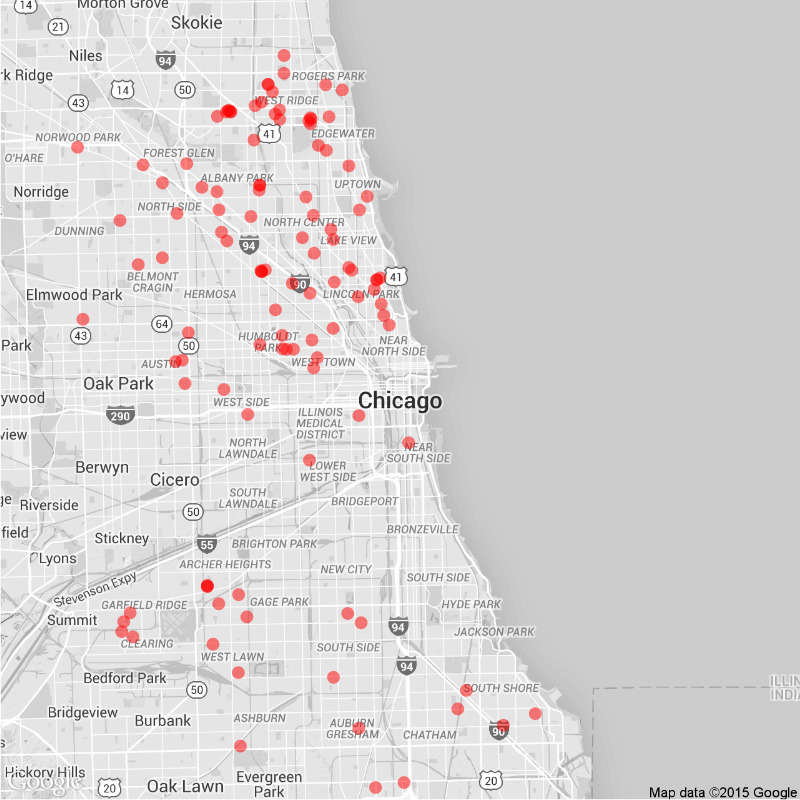
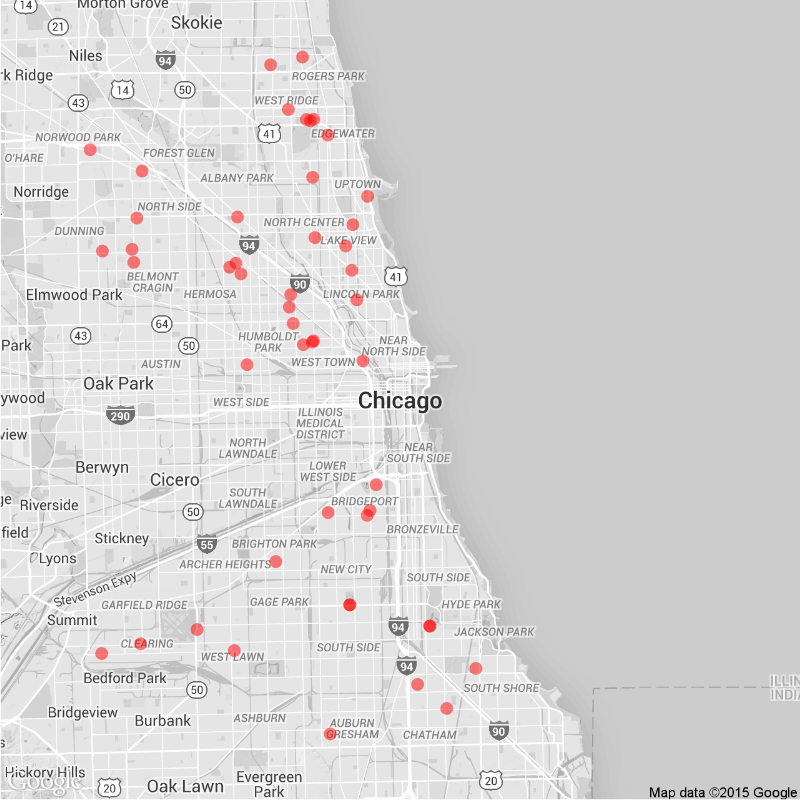
Daily Maps

diff --git a/daily.md b/daily.md
@@ -15,22 +15,22 @@ tags: Chicago NYC weekly daily rats
 
 ### Daily
 
-Yesterday (May 08), there were 117 calls to Chicago's 311 line about rats.
+Yesterday (May 09), there were 49 calls to Chicago's 311 line about rats.
 ![Chicago rat calls to 311 weekly map]({{ site.cityimages }}/daily/Chicago_Rat_Map_Daily.png)
 
 ### Weekly
-Between May 02 and May 08, there were 735 calls to Chicago's 311 line about rats. The average number of weekly calls for this time of year is 695.
+Between May 03 and May 09, there were 748 calls to Chicago's 311 line about rats. The average number of weekly calls for this time of year is 695.
 ![Chicago rat calls to 311 weekly map]({{ site.cityimages }}/daily/Chicago_Rat_Map_Weekly.png)
 ***
 # New York City <a id="nyc"><a>
 
 ### Daily
 
-Yesterday (May 08), there were 0 calls to New York City's 311 line about rats.
+Yesterday (May 09), there were 0 calls to New York City's 311 line about rats.
 ![NYC rat calls to 311 weekly map]({{ site.cityimages }}/daily/NYC_Rat_Map_Daily.png)
 
 ### Weekly
-Between May 02 and May 08, there were 0 calls to New York City's 311 line about rats. The average number of weekly calls for this time of year is 250.
+Between May 03 and May 09, there were 0 calls to New York City's 311 line about rats. The average number of weekly calls for this time of year is 250.
 ![NYC rat calls to 311 weekly map]({{ site.cityimages }}/daily/NYC_Rat_Map_Weekly.png)
 
 Each red dot represents one call about a rat seen in that location. The dots are transparent, so multiple calls from one location will be seen as a solid dot. The usual caveats apply: more calls do not necessarily mean that there are more rats in that location than other parts of the city. A cluster of dots could indicate that one resident is unusually vocal about rodents in his or her neighborhood. Also, more densely populated neighborhoods tend to make more calls to 311.
